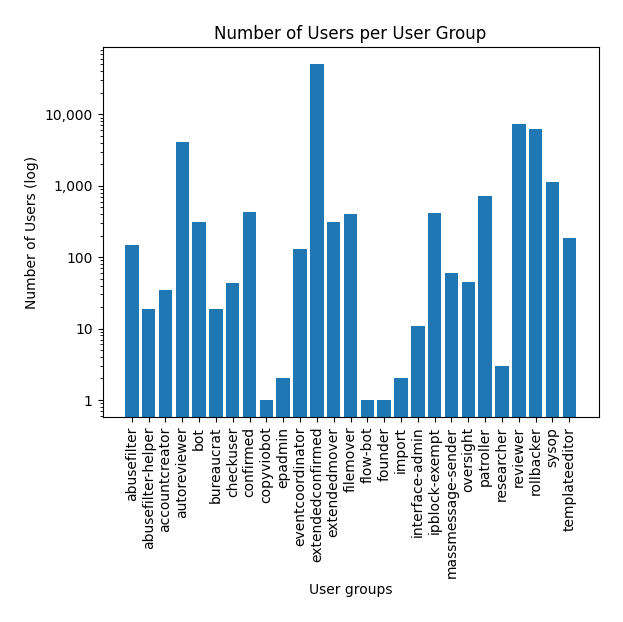
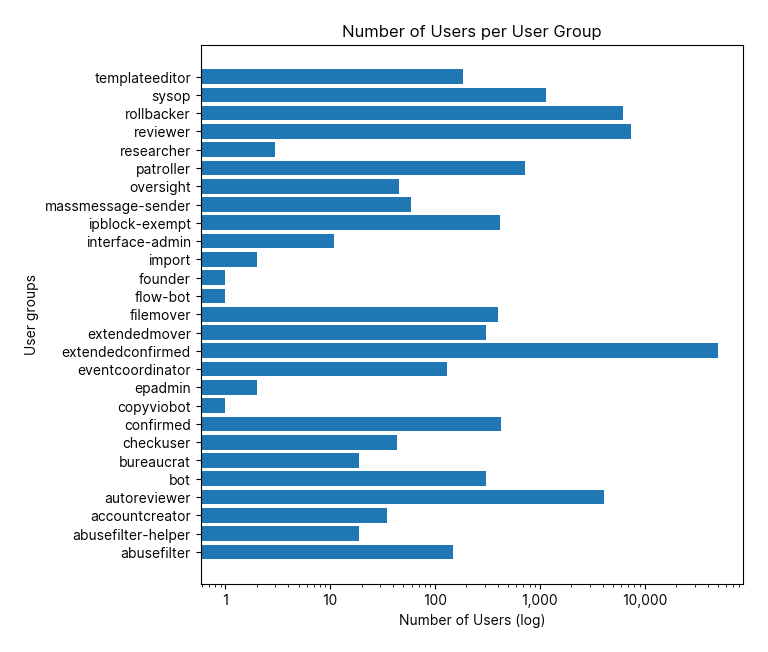
change to horizontal bar chart

diff --git a/nsdb/plot.py b/nsdb/plot.py
@@ -1537,18 +1537,19 @@ def specialUsersPlot(cursor, i, plotDir, dataDir, dryrun):
         ]
 
     fig, ax = plt.subplots()  # Create a figure and an axes.
-    ax.bar(*zip(*data))
-    ax.set_xlabel("User groups")  # Add an x-label to the axes.
-    ax.set_ylabel("Number of Users (log)")  # Add a y-label to the axes.
-    ax.set_yscale("log")
+    ax.barh(*zip(*data))
+    ax.set_ylabel("User groups")  # Add an x-label to the axes.
+    ax.set_xlabel("Number of Users (log)")  # Add a y-label to the axes.
+    ax.set_xscale("log")
     ax.set_title("Number of Users per User Group")  # Add a title to the axes.
-    ax.tick_params(axis="x", labelrotation=90)
-    ax.yaxis.set_major_formatter(tkr.FuncFormatter(threeFigureFormatter))
+    ax.xaxis.set_major_formatter(tkr.FuncFormatter(threeFigureFormatter))
+    plt.gcf().set_size_inches(7, 7)
     plt.savefig(figname + "-log", bbox_inches="tight", pad_inches=0.25)
 
-    ax.set_ylabel("Number of Users (linear)")
-    ax.set_yscale("linear")
-    plt.bar(*zip(*data))
+    ax.set_xlabel("Number of Users (linear)")
+    ax.set_xscale("linear")
+    
+    plt.gcf().set_size_inches(7, 7)
     plt.savefig(figname + "-linear", bbox_inches="tight", pad_inches=0.25)
 
 
